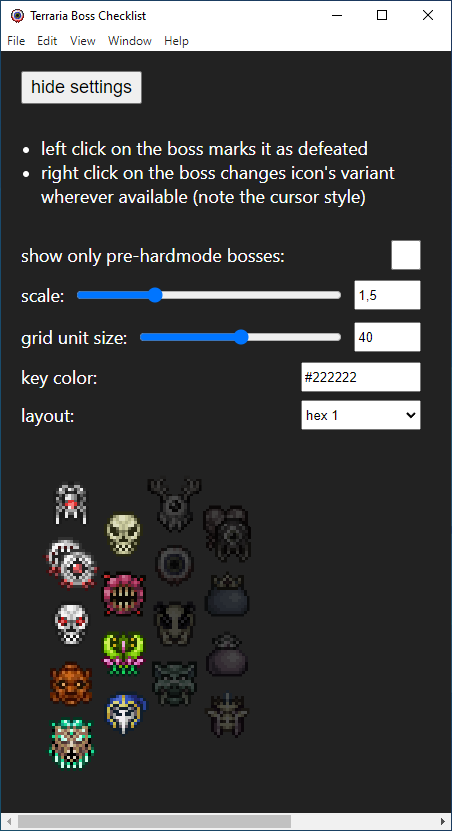
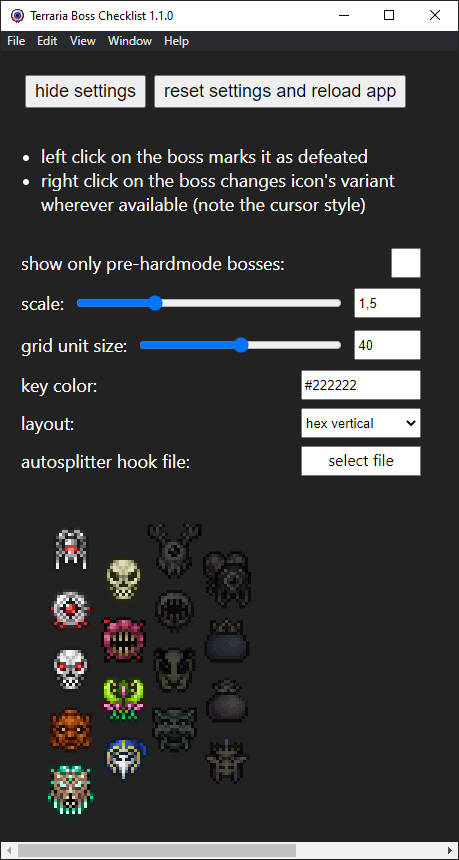
updated readme, bumped minor version

diff --git a/README.md b/README.md
@@ -1,6 +1,6 @@
 ## Summary
 
-Electron-wrapped web app similar to [terraria-boss-checklist by DrYoshiyahu](https://github.com/DrYoshiyahu/terraria-boss-checklist). Currently it uses Electron in order to utilize dirty file-based hook to [Terraria autosplitter](https://github.com/kengho/LiveSplit.Terraria) (forked from [Voxelse](https://github.com/voxelse/LiveSplit.Terraria)).
+Electron-wrapped web app similar to [terraria-boss-checklist by DrYoshiyahu](https://github.com/DrYoshiyahu/terraria-boss-checklist). Currently it uses Electron in order to utilize dirty file-based hook to [Terraria autosplitter](https://github.com/kengho/LiveSplit.Terraria) (forked from [Voxelse](https://github.com/voxelse/LiveSplit.Terraria)), and also to store and read custom boss layouts and icons.
 
 ![screenshot](/doc/screenshot1.png)
 
@@ -11,12 +11,21 @@ Electron-wrapped web app similar to [terraria-boss-checklist by DrYoshiyahu](htt
 3. Added `grid unit size` (useful for linear layouts) and `key color` settings
 4. Some icons (namely Cultist and EoC) were modified to fit the grid better
 5. The icons are better placed in terms of the way people speedrun the game: pre-hardmode bosses are clustered together, obligatory bosses and optional bosses too. Slime royal family is back together (this is the most important feature by far)
+6. Customizable boss layouts and icons
 
 ## Usage
 
 * Download the latest release and run `terraria-boss-checklist Setup x.x.x.exe` (do it on you own risk!)
 * run `terraria-boss-checklist.exe` (do it on you own risk!)
 * select `_bosses-defeated.csv` file in your `LiveSplit` folder using button `autosplitter hook file` in the settings (your `LiveSplit` must support that hook, currently you need to use [this fork](https://github.com/kengho/LiveSplit.Terraria) (use it on you own risk!).
+
+## Customizing
+
+Layouts stored at `public\assets\layouts`. You can create new layout using existing ones as references, put it there and reload the app (`Ctrl + R`) to see them in the list.
+
+Boss icons stored at `public\assets\icons`. Icons' filenames should follow formats `BOSSNAME.ext` or `BOSSNAME-v0.ext`. Using `-` in `BOSSNAME` is not allowed, delim `-` separates bossname and icon version. Putting several files with the same `BOSSNAME` in the folder makes it so right click on the boss icon rotates through them (might need to reload app with `Ctrl + R` in order for the changes to be applied).
+
+NOTE: whether you customize something, make sure that bossnames in your layouts matches such for your icons, otherwise the app might break.
 
 ## Dev
 
@@ -37,6 +46,7 @@ yarn electron-pack
 If there's enough demand, this app could be modified and hosted as a simple web page online (using github.io) and integrated with `LiveSplit`, but in order to do this one must:
 1. made appropriate changes to [autosplitter](https://github.com/voxelse/LiveSplit.Terraria), preferably using `webView2`
 2. change the way the user setting are stored (perhaps they could be stored in the URL)
+3. implement custom layouts and icons somehow
 
 Alternatively, [DrYoshiyahu](https://github.com/DrYoshiyahu/terraria-boss-checklist) may eventually modify their app by introducing new features, rendering this app obsolete.
 
@@ -44,8 +54,8 @@ Alternatively, [DrYoshiyahu](https://github.com/DrYoshiyahu/terraria-boss-checkl
 ## TODO
 
 * allow moving icons inside the grid
-* read `assets` on start and set the icon-based state automatically (thus losing typechecking for boss names, need to think it through)
-* optimize linear layouts (reusing square layout for now)
+  * now, with the custom layouts, is that necessary?
+  * and if yes, how to store that? `layoutsOverrides`?
 * handle errors better
 
 ## License
